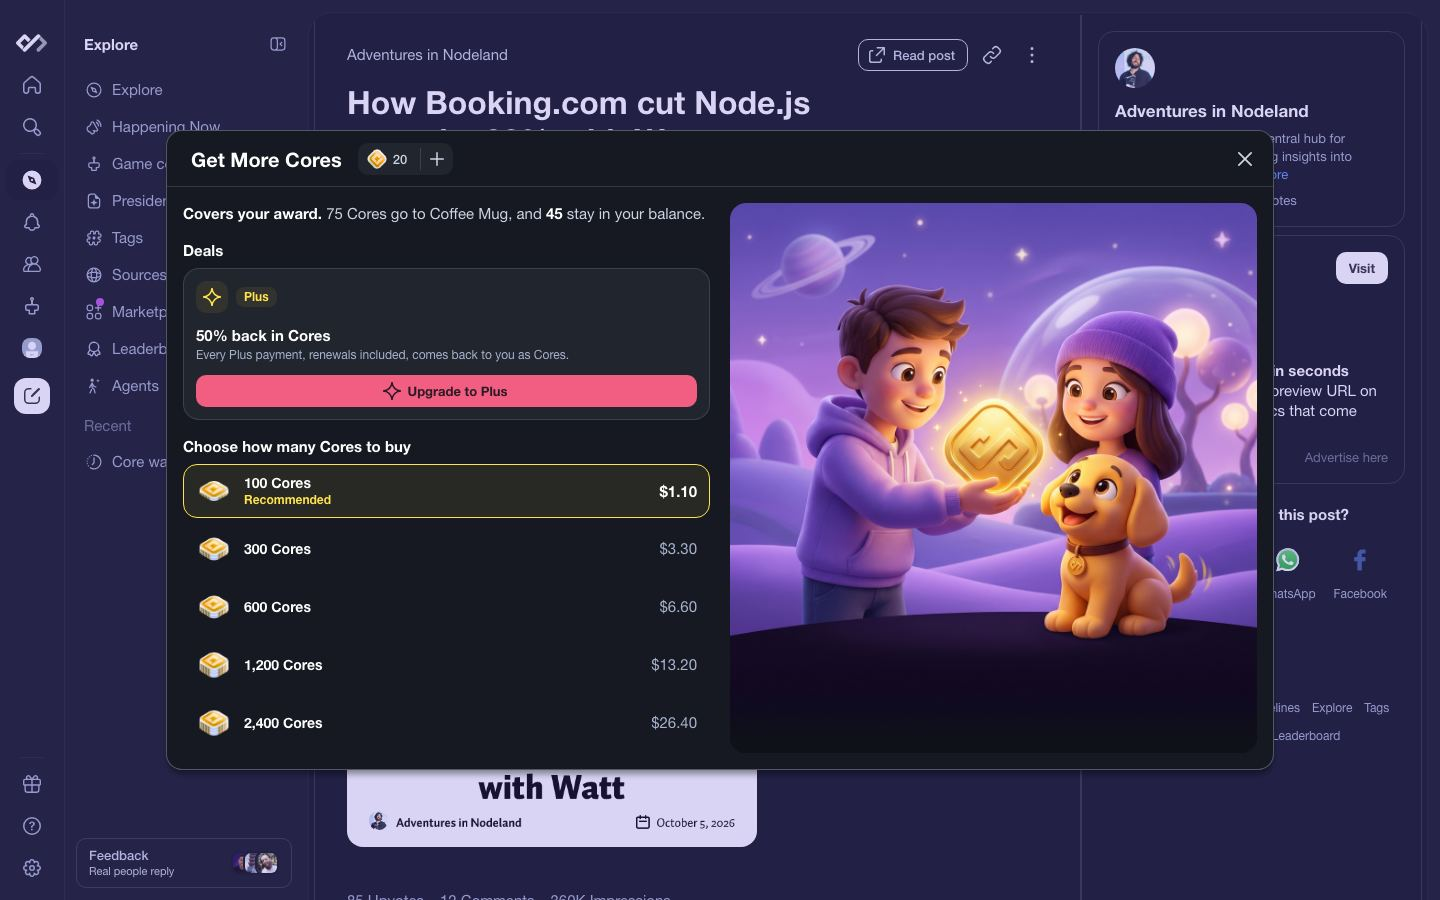
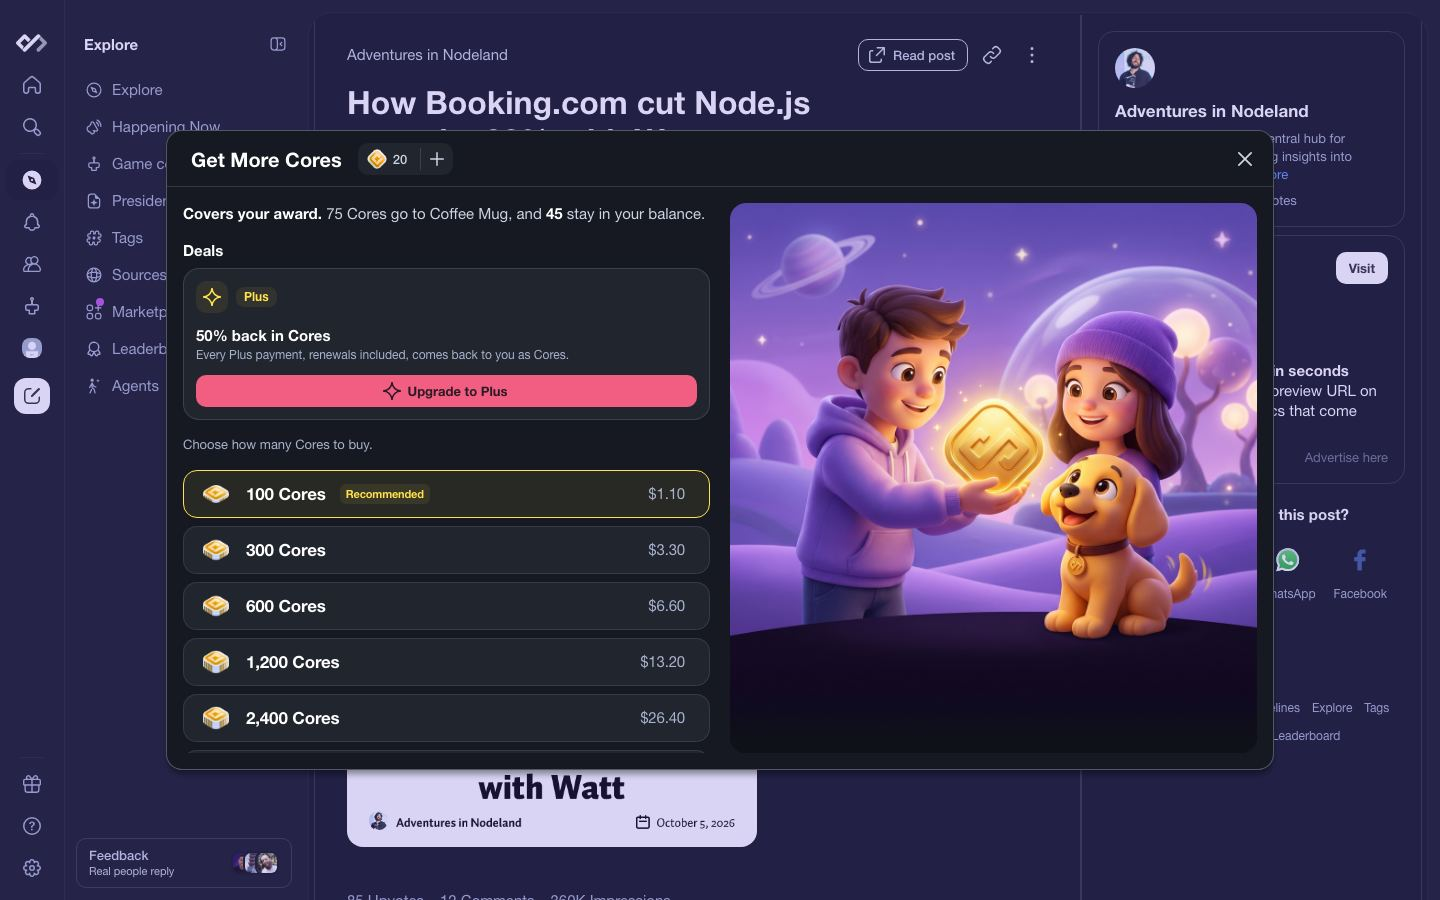
chore(storybook): Buy Cores uses production's pack list; notifications stay production
The redesigned Buy Cores lists packs with production's CoreOptionList; a
click still swaps the art for the checkout. Boost again opens over
production's notifications page, so no notification in the redesign is
redrawn. Compare screenshots re-shot.

diff --git a/packages/storybook/stories/cores-boost/redesign/purchase/BuyCoresRedesign.tsx b/packages/storybook/stories/cores-boost/redesign/purchase/BuyCoresRedesign.tsx
@@ -2,6 +2,7 @@ import type { ReactElement, ReactNode } from 'react';
 import React, { useEffect, useMemo, useState } from 'react';
 import classNames from 'classnames';
 import { useQuery } from '@tanstack/react-query';
+import type { Paddle } from '@paddle/paddle-js';
 import { Modal } from '@dailydotdev/shared/src/components/modals/common/Modal';
 import { ModalBody } from '@dailydotdev/shared/src/components/modals/common/ModalBody';
 import { ModalKind } from '@dailydotdev/shared/src/components/modals/common/types';
@@ -18,7 +19,12 @@ import {
 } from '@dailydotdev/shared/src/components/typography/Typography';
 import { Image } from '@dailydotdev/shared/src/components/image/Image';
 import { getRecommendedCorePrice } from '@dailydotdev/shared/src/components/cores/recommendedCorePrice';
-import type { CoreProductOption } from '@dailydotdev/shared/src/contexts/BuyCoresContext/types';
+import type {
+  BuyCoresContextData,
+  CoreProductOption,
+} from '@dailydotdev/shared/src/contexts/BuyCoresContext/types';
+import { BuyCoresContext } from '@dailydotdev/shared/src/contexts/BuyCoresContext/types';
+import { CoreOptionList } from '@dailydotdev/shared/src/components/cores/CoreOptionList';
 import { coresPricesQueryOptions } from '@dailydotdev/shared/src/graphql/njord';
 import type { Product } from '@dailydotdev/shared/src/graphql/njord';
 import { useAuthContext } from '@dailydotdev/shared/src/contexts/AuthContext';
@@ -37,10 +43,11 @@ import { NeededCopy } from '../../flows/purchase/BuyCoresFixed';
 import friendshipArt from '../../assets/cores-checkout-friendship.png';
 import { Row } from './kit';
 import { Deals } from './Deals';
+import { noop } from '../../real/providers';
 
 // BuyCoresFixedModal (flows/purchase/BuyCoresFixed.tsx) in the redesign's
 // line. Same packs, preselection, copy and actions; new: a "what it's for"
-// card leads, packs are calm rows that say whether they cover it, and the
+// card leads, packs are production's list, and the
 // friendship art fills the right side until a pack is picked, then the
 // checkout takes its place, as the Paddle iframe does in production.
 
@@ -80,90 +87,6 @@ const CheckoutStandIn = ({
     </Button>
   </div>
 );
-
-const PackList = ({
-  minCores,
-  selected,
-  onSelect,
-}: {
-  minCores: number;
-  selected?: CoreProductOption;
-  onSelect: (pack: CoreProductOption) => void;
-}): ReactElement => {
-  const { user, isLoggedIn } = useAuthContext();
-  const { data: prices, isPending } = useQuery(
-    coresPricesQueryOptions({ user, isLoggedIn }),
-  );
-  const recommended = getRecommendedCorePrice({ prices, minCores });
-
-  return (
-    <ul className="flex flex-col gap-1" role="radiogroup">
-      {isPending &&
-        Array.from({ length: 6 }).map((_, index) => (
-          <li
-            // eslint-disable-next-line react/no-array-index-key
-            key={index}
-            className="h-14 animate-pulse rounded-14 bg-surface-float"
-          />
-        ))}
-      {prices?.map((price) => {
-        const cores = price.metadata.coresValue ?? 0;
-        const isSelected = selected?.id === price.priceId;
-        const isRecommended = price.priceId === recommended?.priceId;
-        const isNotEnough = !!minCores && cores < minCores;
-
-        return (
-          <li key={price.priceId}>
-            <button
-              type="button"
-              role="radio"
-              aria-checked={isSelected}
-              onClick={() => onSelect({ id: price.priceId, value: cores })}
-              className={classNames(
-                'flex w-full items-center gap-3 rounded-14 border px-3 py-2 text-left transition-colors',
-                isSelected
-                  ? 'border-action-cores-default bg-action-cores-float'
-                  : 'border-transparent hover:bg-surface-hover',
-                isNotEnough && !isSelected && 'opacity-64',
-              )}
-            >
-              <Image
-                className="size-9"
-                src={getCoreCurrencyImage(cores)}
-                fallbackSrc={coreImage}
-              />
-              <div className="flex min-w-0 flex-1 flex-col">
-                <Typography type={TypographyType.Subhead} bold>
-                  {price.metadata.title}
-                </Typography>
-                {isRecommended && (
-                  <Typography
-                    type={TypographyType.Caption1}
-                    className="text-action-cores-default"
-                    bold
-                  >
-                    Recommended
-                  </Typography>
-                )}
-              </div>
-              <Typography
-                type={TypographyType.Callout}
-                color={
-                  isSelected
-                    ? TypographyColor.Primary
-                    : TypographyColor.Tertiary
-                }
-                bold={isSelected}
-              >
-                {price.price.formatted}
-              </Typography>
-            </button>
-          </li>
-        );
-      })}
-    </ul>
-  );
-};
 
 /** The friendship art that stood in for the checkout video */
 const FriendshipPanel = ({ children }: { children?: ReactNode }) => (
@@ -262,6 +185,20 @@ export const BuyCoresRedesignModal = ({
 
   const pay = () => selected && onPay(selected);
 
+  // Production's pack list. It needs a Paddle to enable its packs and
+  // preselects on its own, so the checkout opens on a real click instead
+  const packsContext: BuyCoresContextData = {
+    paddle: {} as Paddle,
+    openCheckout: noop,
+    amountNeeded: cost,
+    minCoresToBuy: missing,
+    selectedProduct: selected,
+    setSelectedProduct: setSelected,
+    activeStep: 'INTRO',
+    setActiveStep: noop,
+    origin,
+  };
+
   const options = (
     <div className="flex flex-col gap-4">
       <NeededCopy
@@ -272,18 +209,25 @@ export const BuyCoresRedesignModal = ({
         selected={selected}
       />
       <Deals withStartups={purpose === 'boost'} />
-      <div className="flex flex-col gap-2">
-        <Typography type={TypographyType.Callout} bold>
-          Choose how many Cores to buy
+      <div>
+        <Typography
+          type={TypographyType.Footnote}
+          color={TypographyColor.Tertiary}
+        >
+          Choose how many Cores to buy.
         </Typography>
-        <PackList
-          minCores={missing}
-          selected={selected}
-          onSelect={(option) => {
-            setSelected(option);
-            setHasPicked(true);
+        {/* eslint-disable-next-line jsx-a11y/no-static-element-interactions, jsx-a11y/click-events-have-key-events */}
+        <div
+          onClickCapture={(event) => {
+            if ((event.target as HTMLElement).closest('[role="radio"]')) {
+              setHasPicked(true);
+            }
           }}
-        />
+        >
+          <BuyCoresContext.Provider value={packsContext}>
+            <CoreOptionList />
+          </BuyCoresContext.Provider>
+        </div>
       </div>
     </div>
   );

diff --git a/packages/storybook/stories/cores-boost/redesign/AfterBoost.stories.tsx b/packages/storybook/stories/cores-boost/redesign/AfterBoost.stories.tsx
@@ -11,10 +11,6 @@ import type { Campaign } from '@dailydotdev/shared/src/graphql/campaigns';
 import { routeTo } from '../today/production';
 import { CoresProviders } from '../real/providers';
 import { coresHandlers } from '../real/handlers';
-import {
-  BoostEndedNotification,
-  NotificationsColumn,
-} from '../flows/after-boost/BoostNotifications';
 import { NotificationsPage } from '../real/pages';
 import {
   durationOf,
@@ -60,7 +56,7 @@ const lastBoostOf = (campaign: Campaign) => {
   };
 };
 
-/** Boost again from the ended notification, over the notifications page */
+/** Boost again from the ended notification, over production's notifications */
 const BoostAgainScreen = ({
   onSeeBoost,
   initialScreen,
@@ -73,12 +69,7 @@ const BoostAgainScreen = ({
 
   return (
     <>
-      <NotificationsColumn>
-        <BoostEndedNotification
-          campaign={endedCampaign}
-          onBoostAgain={() => setIsOpen(true)}
-        />
-      </NotificationsColumn>
+      <NotificationsPage />
       {isOpen && (
         <BoostAgainModal
           isOpen
